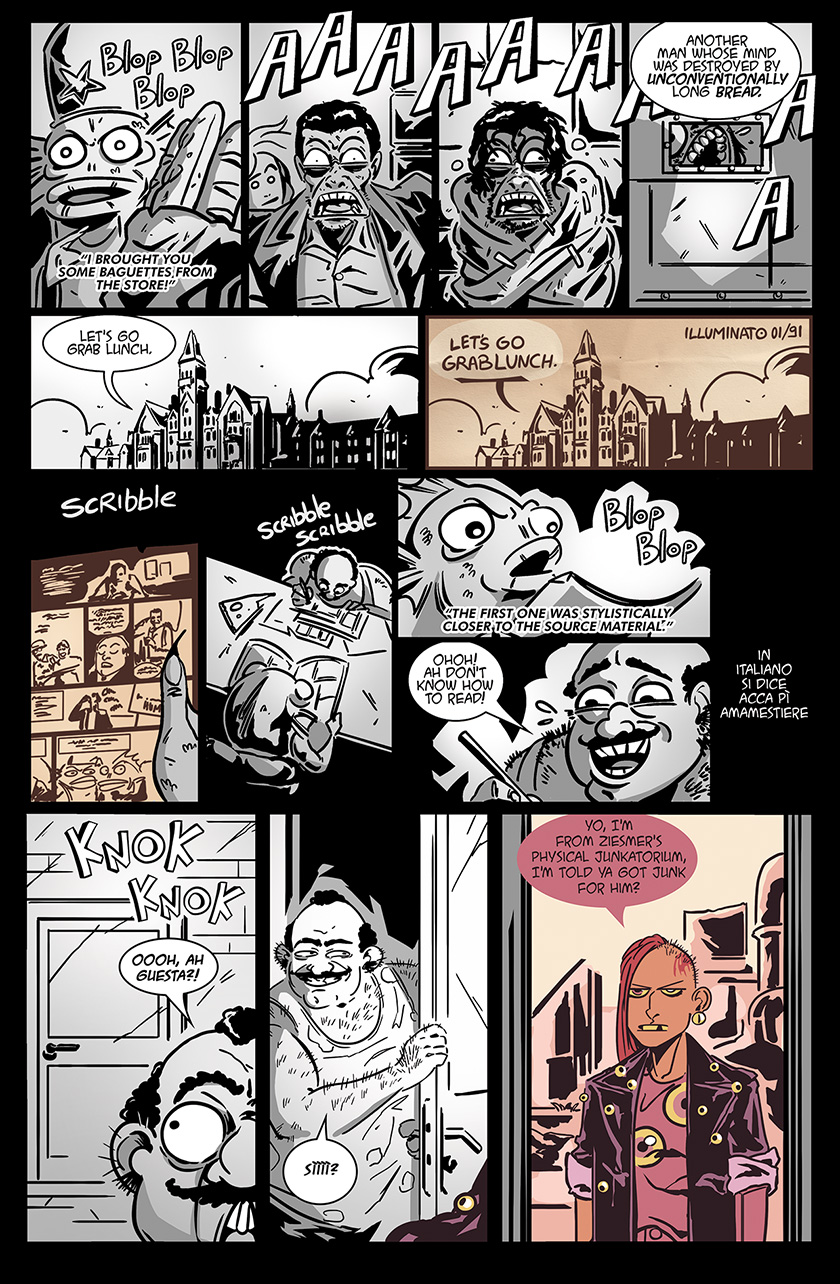
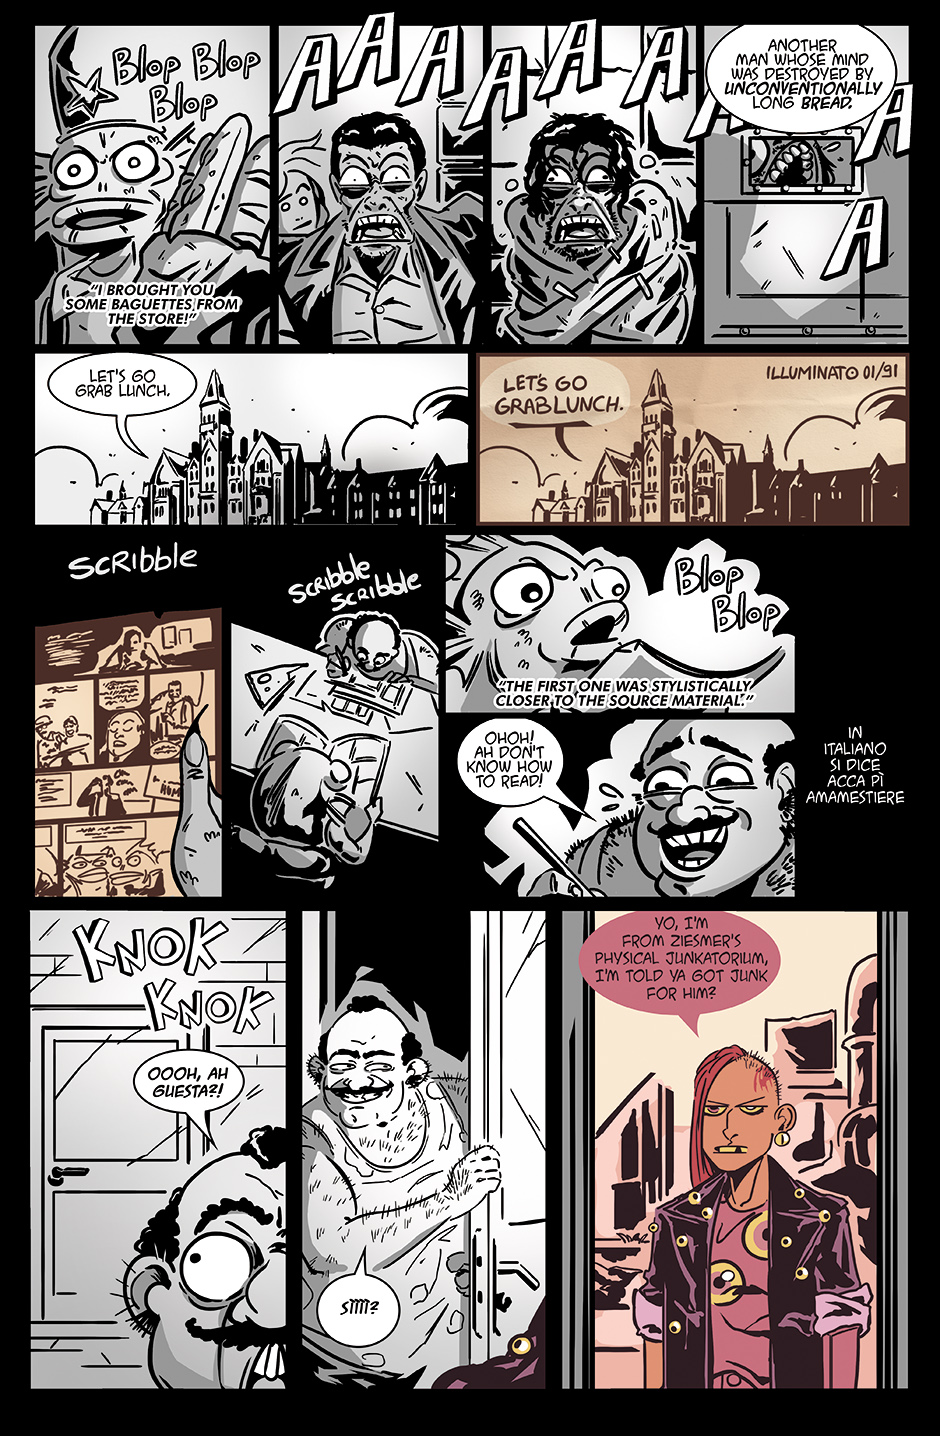
update

diff --git a/OBSCURUM/index.html b/OBSCURUM/index.html
@@ -393,6 +393,74 @@
             >
         
     </div>
+<div id="obscurum4" class="gutta-scroll-anchor"></div>
+        <div class="gutta-sidebox-container d-none d-lg-block">
+        <div class="gutta-sidebox">
+            <h5></h5>
+            <span class="text-secondary">01 April, 2026<a href="https://illuminatedcomics.github.io/obscurum4/"><i class="bi-link-45deg"></i></a>
+            </span>
+            <div class="gutta-sidebox-description">
+                <p></p>
+            </div>
+        </div>
+    </div>
+
+    <div class="gutta-comic-page">
+        <img 
+            loading="lazy" class="gutta-comic-page" 
+            src="../_assets/obscurum/040.jpg" width="940" height="1436"
+            style="background: transparent url('../_assets/') center no-repeat;"
+            >
+        
+    </div>
+    <div class="gutta-comic-page">
+        <img 
+            loading="lazy" class="gutta-comic-page" 
+            src="../_assets/obscurum/041.jpg" width="940" height="1436"
+            style="background: transparent url('../_assets/') center no-repeat;"
+            >
+        
+    </div>
+    <div class="gutta-comic-page">
+        <img 
+            loading="lazy" class="gutta-comic-page" 
+            src="../_assets/obscurum/042.jpg" width="940" height="1436"
+            style="background: transparent url('../_assets/') center no-repeat;"
+            >
+        
+    </div>
+    <div class="gutta-comic-page">
+        <img 
+            loading="lazy" class="gutta-comic-page" 
+            src="../_assets/obscurum/043.jpg" width="940" height="1436"
+            style="background: transparent url('../_assets/') center no-repeat;"
+            >
+        
+    </div>
+    <div class="gutta-comic-page">
+        <img 
+            loading="lazy" class="gutta-comic-page" 
+            src="../_assets/obscurum/044.jpg" width="940" height="1436"
+            style="background: transparent url('../_assets/') center no-repeat;"
+            >
+        
+    </div>
+    <div class="gutta-comic-page">
+        <img 
+            loading="lazy" class="gutta-comic-page" 
+            src="../_assets/obscurum/045.jpg" width="940" height="1436"
+            style="background: transparent url('../_assets/') center no-repeat;"
+            >
+        
+    </div>
+    <div class="gutta-comic-page">
+        <img 
+            loading="lazy" class="gutta-comic-page" 
+            src="../_assets/obscurum/046.jpg" width="940" height="1436"
+            style="background: transparent url('../_assets/') center no-repeat;"
+            >
+        
+    </div>
 
     </div>
     <div class="gutta-next d-flex flex-column align-items-center justify-content-center"><h3><a href="../ORLANDO/"><p>Continue reading: Orlando</p></a></h3>

diff --git a/obscurum4/index.html b/obscurum4/index.html
@@ -1,0 +1,34 @@
+<html><!--
+    STOP!! DO NOT EDIT THIS FILE!!
+
+    THIS FILE IS AUTOGENERATED!!!
+
+    Any modifications you make to this file will be overwritten. Do not edit this file.
+    It is a waste of time to edit this file.
+    
+    ^^ WARNING! ^^ DO NOT EDIT! ^^ WARNING! ^^
+--><head><meta property="og:title" content="Obscurum">
+<meta property="og:site_name" content="Illuminated Comics">
+<meta property="og:description" content="Webcomics!">
+<meta property="og:type" content="comicpanda:webcomic_episode">
+<meta property="og:image" content="https://illuminatedcomics.github.io/_assets/obscurum/040.jpg">
+<meta property="og:image:alt" content="Webcomics!">
+<meta property="og:image:width" content="940">
+<meta property="og:image:height" content="1436">
+<meta name="twitter:card" content="summary_large_image"><meta content="text/html;charset=utf-8" http-equiv="Content-Type">
+        <meta content="utf-8" http-equiv="encoding">
+        <title>Illuminated Comics - Obscurum</title>
+            <!-- Google tag (gtag.js) -->
+            <script async src="https://www.googletagmanager.com/gtag/js?id=G-YZ959F0MDF"></script>
+            <script>
+                window.dataLayer = window.dataLayer || [];
+                function gtag(){dataLayer.push(arguments);}
+                gtag('js', new Date());
+                gtag('config', 'G-YZ959F0MDF');
+            </script>
+    <script>
+        window.location.replace('../OBSCURUM/#obscurum4');
+    </script>
+</head>
+    <body>    </body>
+</html>

diff --git a/cakp/index.html b/cakp/index.html
@@ -919,7 +919,7 @@
     <div class="gutta-comic-page">
         <img 
             loading="lazy" class="gutta-comic-page" 
-            src="../_assets/comicsaboutkillingpeople/109.jpg" width="840" height="1284"
+            src="../_assets/comicsaboutkillingpeople/109.jpg" width="940" height="1436"
             style="background: transparent url('../_assets/') center no-repeat;"
             >
         

diff --git a/index.html b/index.html
@@ -51,7 +51,7 @@
         <div class="card  mb-3 gutta-gallery-entry ">
             <img src="_assets/obscurum/obscurum_thumb.jpg" class="card-img-top" alt="">
             <div class="card-body">
-                <h4 class="card-title">Obscurum</h4><h6 class="card-subtitle mb-2 text-muted">March 2026</h5><div class="card-text gutta-gallery-description"></div>
+                <h4 class="card-title">Obscurum</h4><h6 class="card-subtitle mb-2 text-muted">March 2026 - April 2026</h5><div class="card-text gutta-gallery-description"></div>
             </div>
         </div>
         </a>